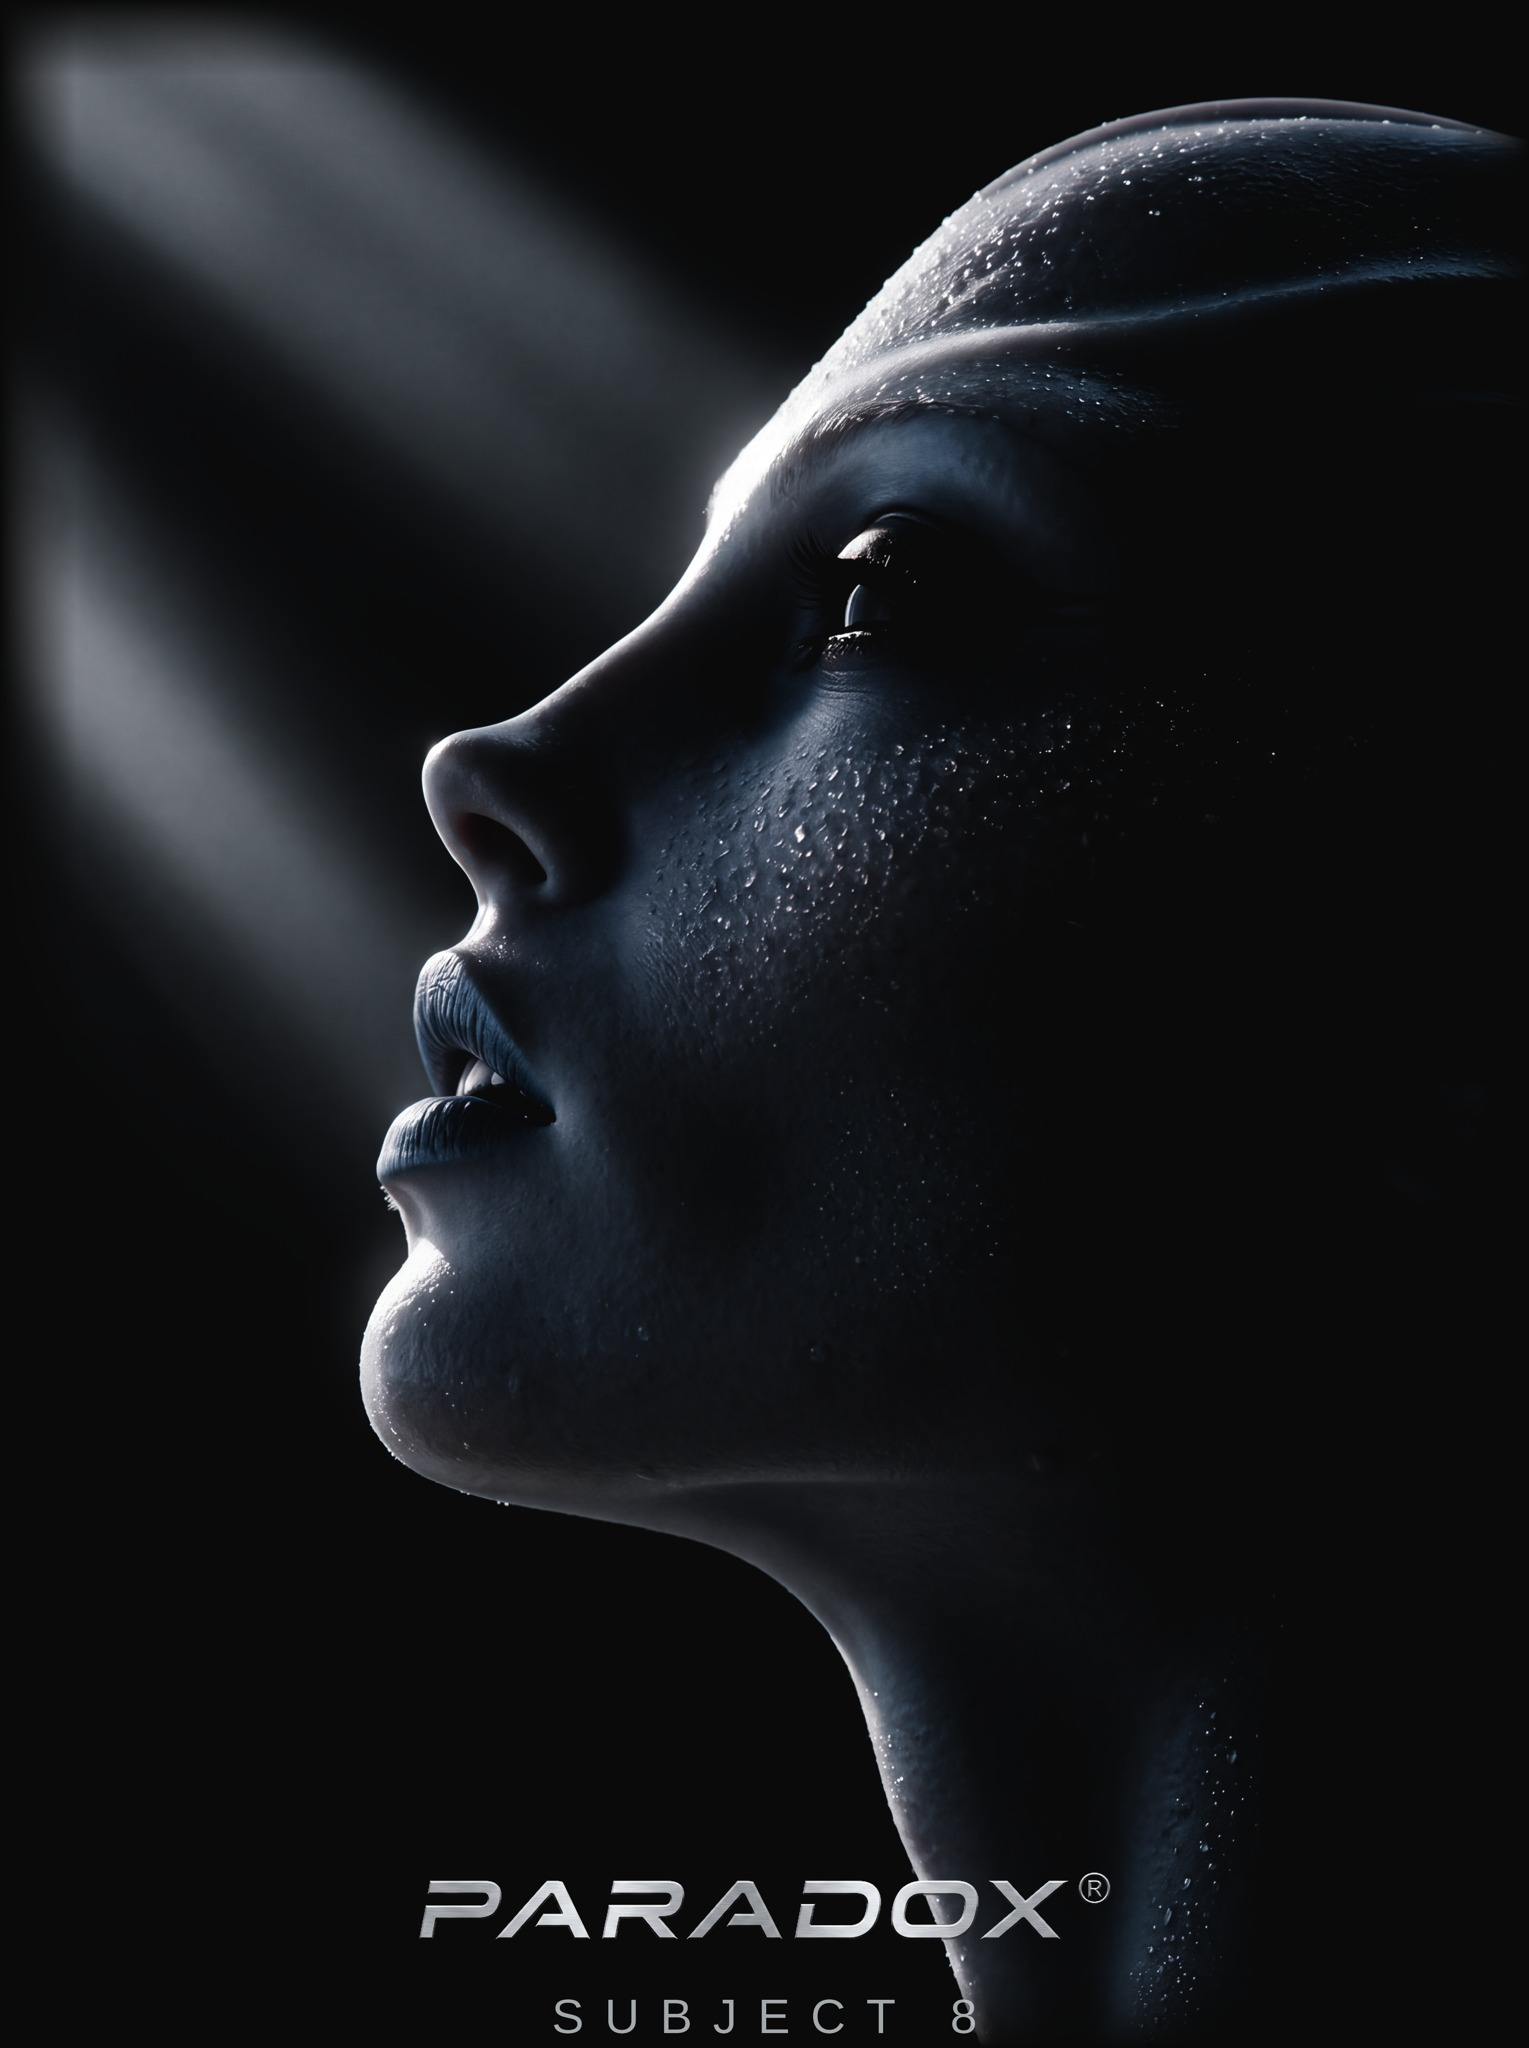
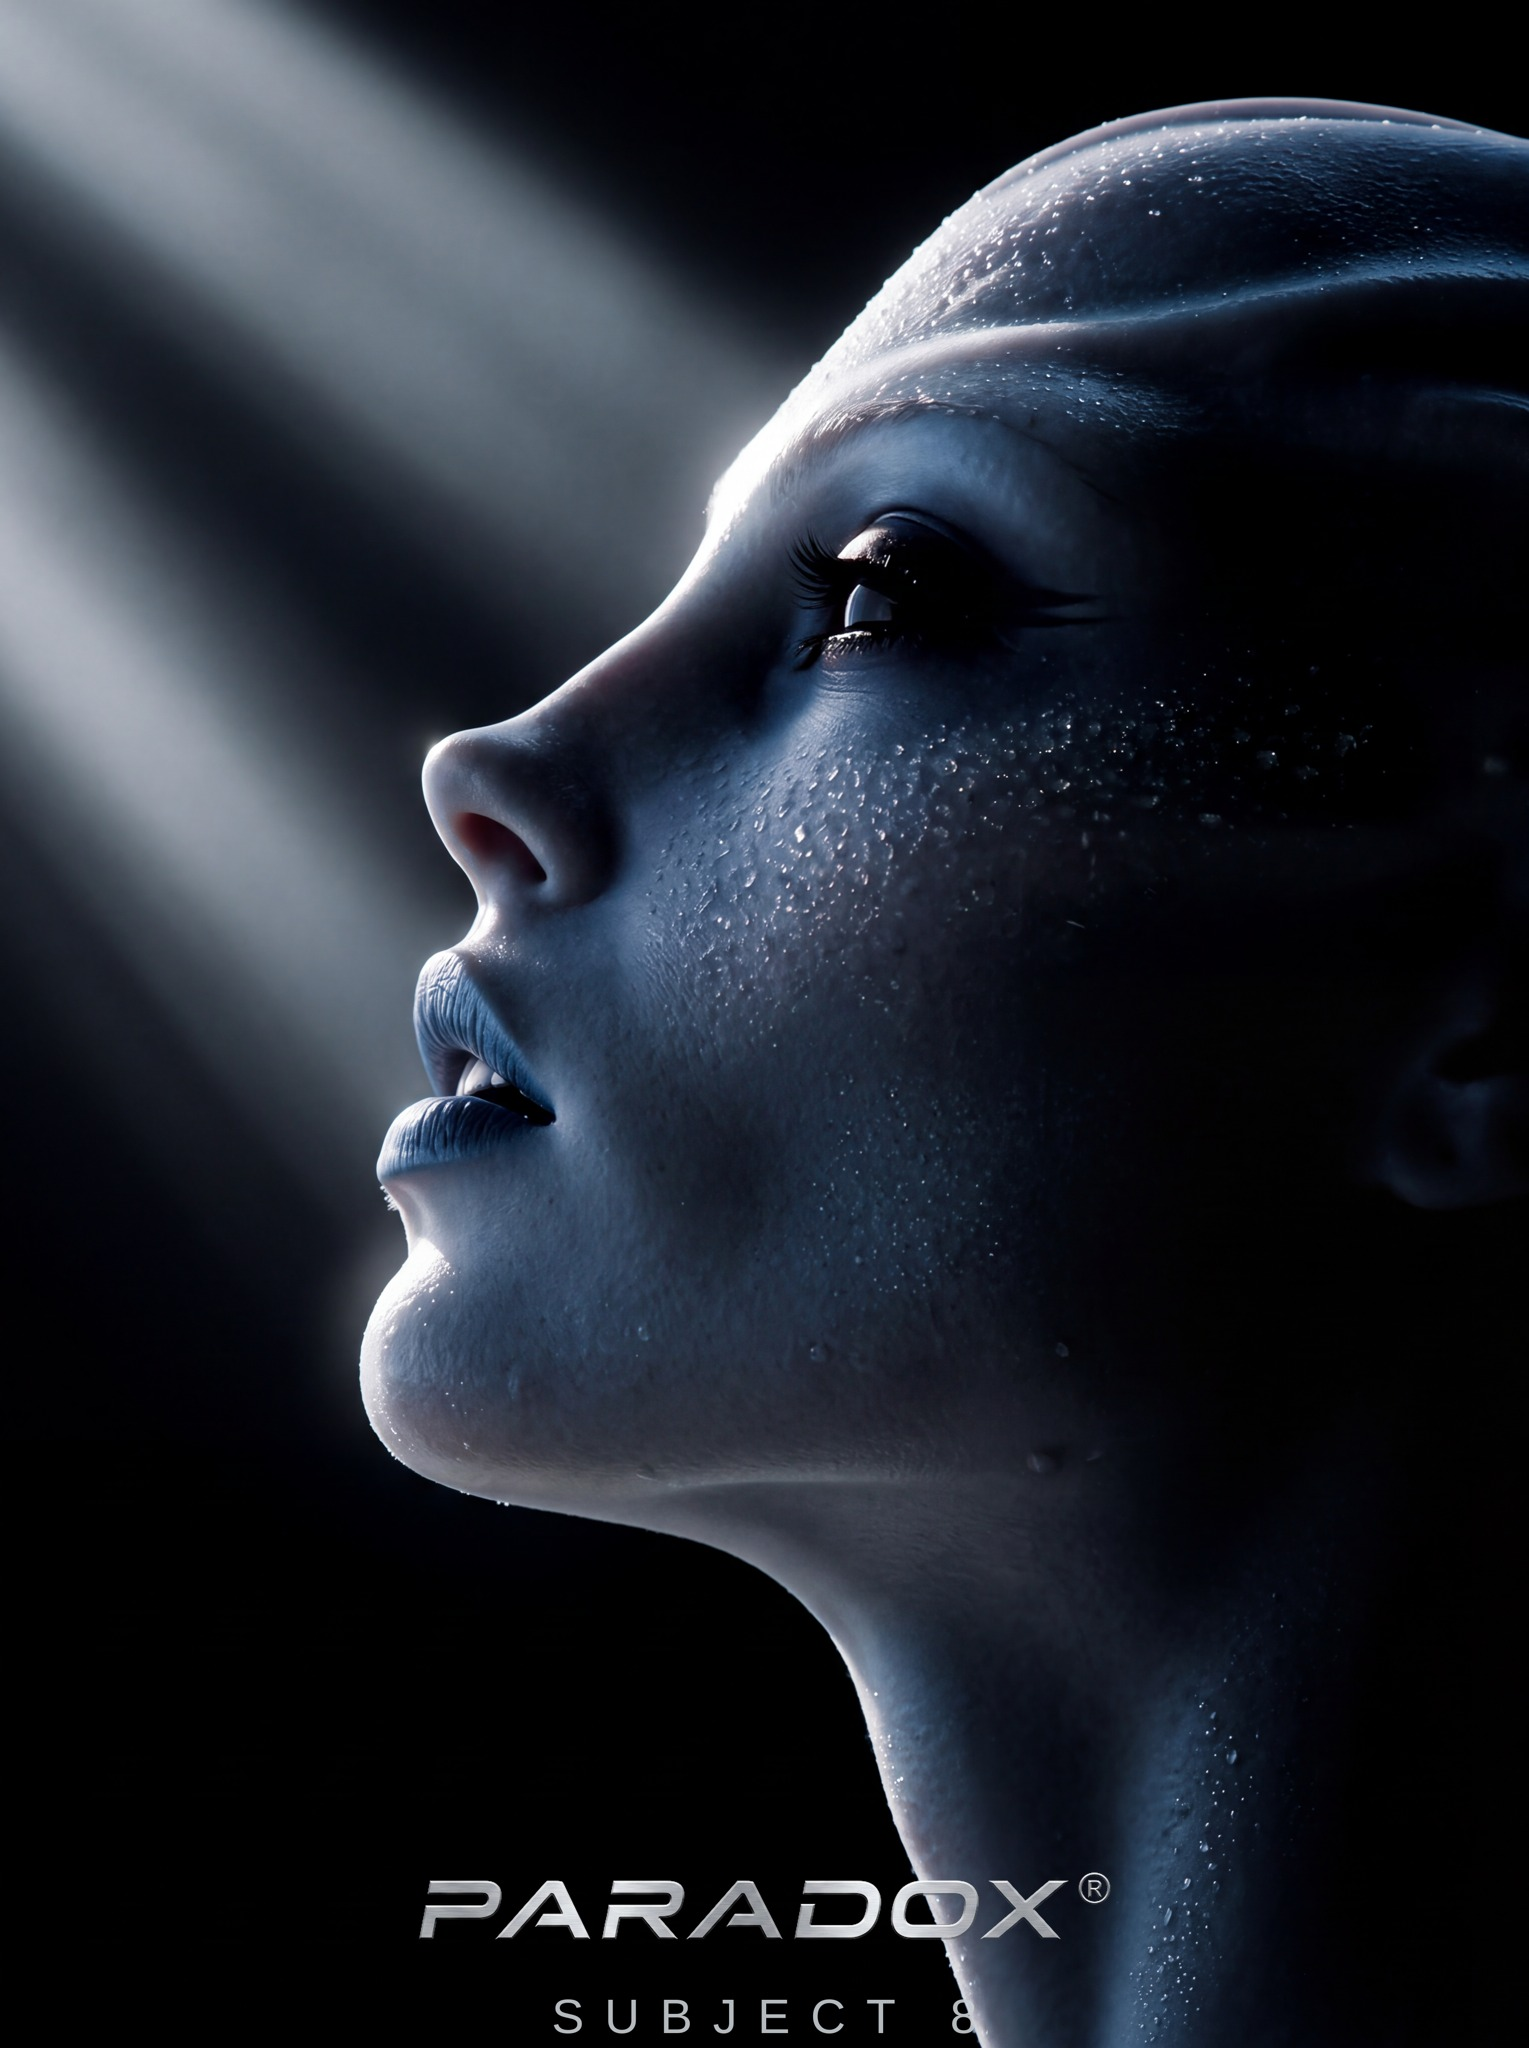
Refresh the hoodie and tote drafts in place
Printify lays a white underbase under every partially transparent pixel
on dark garments, so the feathered knockout printed as a grey haze; the
hoodie now ships as a flat opaque file on black. The tote resolved to an
AOP shoulder tote with white straps, so its description says so, its
wordmark moves up out of the bottom seam, and it is priced at 47 %
margin. The publisher gains an in-place refresh path (re-upload, rewrite
listing, placement and prices on the existing product) and publishes
already-created drafts when asked, driven from merch/publish.json.

Claude-Session: https://claude.ai/code/session_01PjBgKaAPaLk31zA4khjM44

diff --git a/tools/printify_publish.py b/tools/printify_publish.py
@@ -27,6 +27,13 @@ PUBLISH = os.environ.get("PUBLISH", "false").lower() == "true"
 FORCE = os.environ.get("FORCE", "false").lower() == "true"
 ONLY = [k for k in os.environ.get("ONLY", "").split(",") if k]
 RESULTS = "merch/published.json"
+# Products to re-upload and rewrite in place; taken from merch/publish.json so
+# the workflow file itself never needs to change.
+REFRESH = [k for k in os.environ.get("REFRESH", "").split(",") if k] or (
+    json.load(open("merch/publish.json")).get("refresh", []) if os.path.exists("merch/publish.json") else [])
+PUBLISH_FIELDS = {"title": True, "description": True, "images": True,
+                  "variants": True, "tags": True, "keyFeatures": True,
+                  "shipping_template": True}
 
 
 def call(method, path, body=None):
@@ -97,6 +104,43 @@ def price_for(cost, margin, floor):
     return max(price, floor)
 
 
+def refresh_product(prod, existing):
+    """Re-upload the artwork and rewrite listing, placement and prices on an
+    existing product, keeping its id, blueprint, provider and variants."""
+    key, pid = prod["key"], existing["product_id"]
+    current = call("GET", f"shops/{SHOP}/products/{pid}.json")
+    up = call("POST", "uploads/images.json",
+              {"file_name": os.path.basename(prod["image"]), "url": f"{RAW_BASE}/{prod['image']}"})
+    print(f"[{key}] re-uploaded {up.get('file_name')} {up.get('width')}x{up.get('height')} -> {up['id']}")
+    enabled = [v for v in current.get("variants", []) if v.get("is_enabled")]
+    ids = [v["id"] for v in enabled]
+    priced = [{"id": v["id"], "price": price_for(v["cost"], prod["margin"], prod.get("min_price", 0)),
+               "is_enabled": True} for v in enabled]
+    body = {
+        "title": prod["title"],
+        "description": prod["description"],
+        "tags": prod["tags"],
+        "variants": priced,
+        "print_areas": [{
+            "variant_ids": ids,
+            "placeholders": [
+                {"position": pos, "images": [{"id": up["id"], "x": 0.5, "y": 0.5, "scale": 1, "angle": 0}]}
+                for pos in prod["positions"]],
+        }],
+    }
+    call("PUT", f"shops/{SHOP}/products/{pid}.json", body)
+    time.sleep(15)  # Printify re-renders mockups after an update
+    final = call("GET", f"shops/{SHOP}/products/{pid}.json")
+    prices = [p["price"] for p in priced]
+    existing.update({
+        "title": prod["title"], "variants": len(priced),
+        "price_min": min(prices), "price_max": max(prices),
+        "mockups": [im.get("src") for im in final.get("images", [])][:8],
+    })
+    print(f"[{key}] refreshed product {pid}: {len(priced)} variants "
+          f"${min(prices)/100:.2f}–${max(prices)/100:.2f} at ≥{prod['margin']:.0%} margin")
+
+
 def main():
     if not TOKEN:
         sys.exit("error: PRINTIFY_API_TOKEN is not set (add it as a repository secret)")
@@ -115,7 +159,17 @@ def main():
         if ONLY and key not in ONLY:
             continue
         if key in results and not FORCE:
-            print(f"[{key}] already created as product {results[key]['product_id']}; skipping")
+            existing = results[key]
+            pid = existing["product_id"]
+            if key in REFRESH:
+                refresh_product(prod, existing)
+            if PUBLISH and not existing.get("published"):
+                call("POST", f"shops/{SHOP}/products/{pid}/publish.json", PUBLISH_FIELDS)
+                existing["published"] = True
+                print(f"[{key}] publish requested for product {pid}")
+            if key not in REFRESH and not PUBLISH:
+                print(f"[{key}] already created as product {pid}; skipping")
+            json.dump(results, open(RESULTS, "w"), indent=2)
             continue
 
         bp = find_blueprint(prod["blueprint"], blueprints)
@@ -169,10 +223,7 @@ def main():
               f"at ≥{prod['margin']:.0%} margin")
 
         if PUBLISH:
-            call("POST", f"shops/{SHOP}/products/{pid}/publish.json",
-                 {"title": True, "description": True, "images": True,
-                  "variants": True, "tags": True, "keyFeatures": True,
-                  "shipping_template": True})
+            call("POST", f"shops/{SHOP}/products/{pid}/publish.json", PUBLISH_FIELDS)
             print(f"[{key}] publish requested")
 
         final = call("GET", f"shops/{SHOP}/products/{pid}.json")
